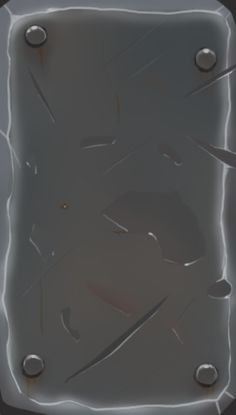
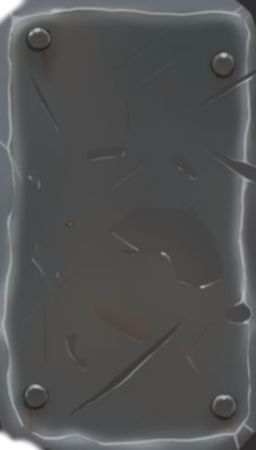
Arreglado problema con el panel derecho.

Changed region(s): [[0.0, 0.9542, 0.178, 1.0], [0.0, 0.0, 0.1186, 0.0578]]

diff --git a/clases/hud.cpp b/clases/hud.cpp
@@ -7,13 +7,13 @@ Texture2D hudTexturePanel;
 Rectangle hudRightPanel;
 void hudInit()
 {
-    hudRightPanel={static_cast<float>(GetScreenWidth()-(GetScreenWidth()/5)),static_cast<float>(GetScreenHeight()/2),static_cast<float>(GetScreenWidth()/5), static_cast<float>(GetScreenHeight())};
+    hudRightPanel={static_cast<float>(GetScreenWidth()-(GetScreenWidth()/5)),0,static_cast<float>(GetScreenWidth()/5*2), static_cast<float>(GetScreenHeight())};
     hudTexturePanel = LoadTexture("resources/HudPanelRight.png");
 
 }
 void hudDraw()
 {
-    DrawTextureRec(hudTexturePanel, hudRightPanel, Vector2{ static_cast<float>(GetScreenWidth()-(GetScreenWidth()/5)),static_cast<float>(GetScreenHeight()/2) } ,WHITE);
+    DrawTexture(hudTexturePanel, static_cast<float>(GetScreenWidth()-(GetScreenWidth()/5)*1.54),0 ,WHITE);
 }
 
 void hudUnload()
